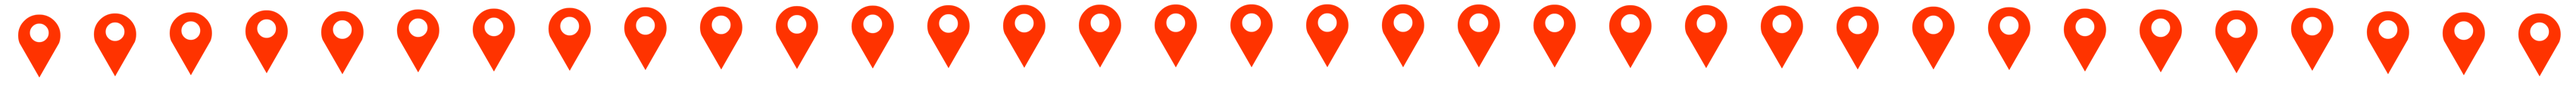
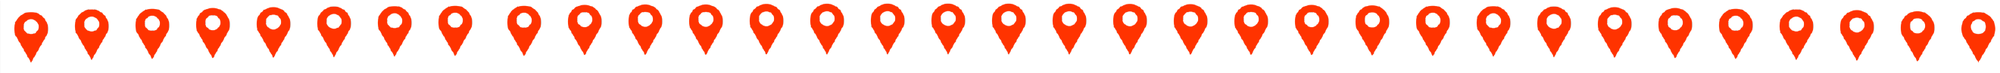
1. Corrección punto faltante.

Changed region(s): [[0.0, 0.0309, 1.0, 0.8351]]

diff --git a/src/scenes/game.js b/src/scenes/game.js
@@ -21,7 +21,7 @@ export class Game extends Phaser.Scene {
         this.load.image('home', 'home.png');
         this.load.image('fullScreen-on', 'fullscreen-on.png');
         this.load.image('fullScreen-off', 'fullscreen-off.png');
-        this.load.spritesheet('indicador', 'indicador.png', { frameWidth: 100, frameHeight: 120 });
+        this.load.spritesheet('indicador', 'indicador.png', { frameWidth: 80, frameHeight: 96 });
 
         slides.forEach(cont => {
             this.load.image(cont, `slides/${cont}.png`);
@@ -256,6 +256,12 @@ export class Game extends Phaser.Scene {
         indicador.anims.play('iddle');
         target = this.add.sprite(406, 197, 'square').setScale(2, 4).setInteractive().setAngle(45);
         target.slides = [14, 15, 17, 18];
+        targets.push(target);
+
+        indicador = this.add.sprite(416, 300, 'indicador'); 
+        indicador.anims.play('iddle');
+        target = this.add.sprite(406, 307, 'square').setScale(2, 4).setInteractive().setAngle(45);
+        target.slides = [15, 15, 17, 18];
         targets.push(target);
 
         indicador = this.add.sprite(1505, 56, 'indicador'); 
